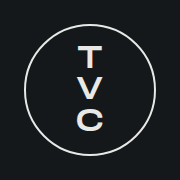
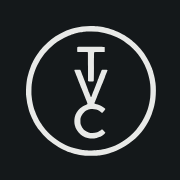
Use the company's real monogram
The mark I had been drawing was wrong. It set T, V and C as three separate
<text> baselines with gaps between them; Adam's actual mark interlocks them
down a shared axis — the T's stem runs into the V, the V's point runs into the
C — inside a thin ring.

This is a trace of his artwork, not a redraw. The supplied JPEG is upscaled 4x,
blurred to kill JPEG ringing, thresholded and run through potrace; the result
agrees with the original at 98.8% IoU, 50235 ink pixels against 50214. The
outlines are drawn, so the mark carries no font dependency and inherits
currentColor rather than depending on Archivo being loaded — the old one was
live text and would have shifted if the webfont failed.

site/scripts/trace-logo.py regenerates the path from site/scripts/logo-source.jpg
and --check reports the IoU, so this is reproducible if the artwork is ever
re-supplied at a higher resolution. The path in Monogram.astro, favicon.svg and
the archive is byte-identical to what that script emits.

Replaced in four places: the nav (now src/components/Monogram.astro, one source
of truth), favicon.svg, apple-touch-icon.png regenerated from the same path, and
the Direction A archive's inline copy. Direction B has no monogram — its header
is a type wordmark.

The paper backing disc is kept as a separate circle behind the traced path, so
the mark itself stays exactly as supplied while still reading over photography
and over the dark Materials and Finish bands.

Changed region(s): [[0.1111, 0.1111, 0.8889, 0.8889], [0.3889, 0.25, 0.6111, 0.7778]]

diff --git a/samples/venetian-company/index.html b/samples/venetian-company/index.html
@@ -193,9 +193,8 @@ h1,h2,h3{
    baselines — three lines of caps in a 44px circle collide in normal flow. */
 .monogram{ display:block; width:46px; height:46px; flex:0 0 auto; color:var(--ink); }
 .monogram svg{ display:block; width:100%; height:100%; overflow:visible; }
-.monogram text{ font-family:var(--display); font-weight:600; font-size:11px; font-stretch:125%;
-  fill:currentColor; letter-spacing:.2px; }
-.monogram circle{ fill:rgba(252,253,252,.82); stroke:currentColor; stroke-width:1; }
+.monogram path{ fill:currentColor; }
+.monogram .disc{ fill:rgba(252,253,252,.82); }
 .topbar nav{ display:none; gap:2.2rem; }
 .topbar nav a{
   text-decoration:none; font-size:var(--t-label); letter-spacing:var(--t-track);
@@ -693,11 +692,11 @@ footer{
 
 <header class="topbar">
   <a href="#top" class="monogram" aria-label="The Venetian Company, home">
-    <svg viewBox="0 0 48 48" role="img" aria-hidden="true" focusable="false">
-      <circle cx="24" cy="24" r="22.5"/>
-      <text x="24"   y="17.5" text-anchor="middle">T</text>
-      <text x="24.8" y="28"   text-anchor="middle">V</text>
-      <text x="24"   y="38.5" text-anchor="middle">C</text>
+    <!-- Adam's own mark, traced from the supplied artwork. Drawn outlines, so
+         no font dependency; the disc is a backing for placements over photos. -->
+    <svg viewBox="0 0 512 512" aria-hidden="true" focusable="false">
+      <circle class="disc" cx="256" cy="256" r="246"/>
+      <path d="M233.0 510.83C225.7 510.13 210.89 508.0 206.45 507.01C195.32 504.54 188.81 502.99 186.69 502.29C185.39 501.87 182.34 500.92 179.91 500.2C177.47 499.47 173.63 498.21 171.35 497.39C169.08 496.57 165.9 495.44 164.28 494.87C156.19 492.02 139.34 483.98 128.8 477.94C98.44 460.53 71.36 436.45 50.27 408.11C45.13 401.21 34.8 385.68 34.8 384.86C34.8 384.7 34.12 383.49 33.29 382.17C31.18 378.83 23.7 363.64 20.68 356.57C19.29 353.33 17.8 349.88 17.36 348.9C16.3 346.57 12.55 335.75 11.12 330.91C5.89 313.18 2.53 295.87 0.84 277.95C-1.23 255.9 0.88 222.1 5.61 201.68C9.31 185.67 13.88 171.14 19.58 157.2C23.19 148.39 33.92 127.57 38.13 121.22C54.99 95.77 65.77 82.95 85.24 65.2C103.63 48.41 128.34 32.33 151.46 22.09C161.33 17.71 176.04 12.25 183.15 10.32C185.1 9.79 188.55 8.85 190.82 8.22C208.77 3.25 233.16 0.04 253.05 0.02C263.75 0.01 284.17 1.14 290.13 2.08C310.4 5.26 319.34 7.32 335.04 12.43C350.11 17.33 356.08 19.81 371.37 27.52C383.46 33.62 392.81 39.24 405.82 48.21C417.73 56.42 439.86 76.91 450.52 89.6C470.45 113.3 485.91 139.37 495.16 164.87C496.34 168.11 497.65 171.56 498.07 172.53C499.68 176.2 505.09 196.21 506.76 204.68C507.84 210.16 508.2 212.36 509.99 224.44C512.36 240.5 512.32 266.88 509.89 286.97C508.51 298.42 508.0 301.42 505.41 313.22C503.37 322.51 498.65 338.04 495.1 347.13C478.79 388.9 453.63 424.08 419.98 452.19C400.88 468.15 383.31 479.03 357.75 490.73C354.33 492.3 353.21 492.75 346.25 495.38C335.17 499.56 317.12 504.72 305.84 506.93C289.1 510.22 281.23 510.93 259.24 511.12C247.56 511.23 235.75 511.1 233.0 510.83ZM284.61 488.71C299.03 486.52 309.65 484.53 313.81 483.22C314.94 482.87 317.99 482.0 320.59 481.29C363.17 469.66 404.14 443.3 434.2 408.18C450.23 389.46 464.62 365.99 472.91 345.07C477.48 333.54 478.31 331.22 480.48 323.83C484.9 308.78 486.21 302.52 489.06 282.6C490.88 269.93 490.68 237.51 488.71 226.51C488.22 223.75 487.82 220.65 487.82 219.62C487.82 217.76 486.74 212.49 483.93 200.55C481.59 190.57 477.97 179.16 474.46 170.64C473.29 167.79 471.97 164.46 471.52 163.25C468.5 154.96 457.96 135.62 450.31 124.34C427.33 90.45 394.7 62.28 357.85 44.51C321.61 27.04 284.0 19.56 243.32 21.75C235.73 22.16 227.05 22.88 224.03 23.36C221.01 23.84 216.95 24.48 215.0 24.79C206.45 26.15 195.58 28.8 184.63 32.2C178.49 34.1 176.51 34.8 170.76 37.17C169.79 37.57 166.74 38.81 163.98 39.93C148.08 46.38 125.77 59.52 111.78 70.68C82.06 94.36 60.35 121.33 44.48 154.25C38.4 166.87 31.94 183.99 29.46 194.06C27.47 202.12 26.45 206.67 25.63 211.17C22.45 228.48 21.76 235.57 21.52 253.35C21.4 262.11 21.53 270.86 21.81 272.81C22.09 274.76 22.63 279.48 23.0 283.3C23.87 292.12 26.59 306.9 28.95 315.57C30.76 322.22 34.21 333.22 35.42 336.22C36.02 337.68 37.19 340.73 38.04 343.0C39.89 347.98 39.93 348.06 46.24 360.87C49.01 366.48 51.81 371.83 52.47 372.76C53.14 373.69 53.68 374.63 53.68 374.86C53.68 375.5 64.38 391.43 68.82 397.38C77.84 409.49 92.14 424.5 105.59 435.97C127.92 455.01 160.61 472.56 189.05 480.75C197.83 483.28 213.71 486.87 218.84 487.49C220.62 487.7 224.74 488.26 227.98 488.72C237.11 490.03 237.94 490.06 258.65 489.88C273.09 489.74 279.8 489.44 284.61 488.71ZM252.3 442.92C239.09 441.65 224.51 435.48 214.93 427.12C202.25 416.06 195.7 405.53 191.96 390.19C190.02 382.22 189.91 368.5 191.72 360.25C195.0 345.29 201.95 333.5 213.27 323.68C220.88 317.08 227.57 313.15 237.1 309.67C239.53 308.79 241.76 307.66 242.07 307.18C242.57 306.37 239.68 297.79 236.84 291.69C236.39 290.71 234.26 285.4 232.12 279.89C229.97 274.37 227.7 268.67 227.08 267.21C226.45 265.75 224.33 260.44 222.37 255.41C220.4 250.38 218.28 245.07 217.66 243.61C217.03 242.15 213.71 233.79 210.27 225.03C203.49 207.71 202.65 205.63 201.04 201.91C200.45 200.55 199.96 199.26 199.96 199.05C199.96 198.84 199.58 197.83 199.12 196.81C198.66 195.79 197.58 193.09 196.72 190.82C194.95 186.1 193.26 181.91 191.64 178.27C190.41 175.49 190.22 173.68 191.1 173.14C191.41 172.94 196.48 172.77 202.35 172.76C211.48 172.74 213.19 172.87 214.11 173.71C214.7 174.24 216.26 177.52 217.57 180.98C218.88 184.45 221.85 192.19 224.17 198.19C226.49 204.2 231.05 216.14 234.3 224.74C237.55 233.33 241.12 242.76 242.24 245.68C243.37 248.6 244.52 251.73 244.8 252.65C245.09 253.56 246.77 257.94 248.54 262.38C251.57 269.98 254.22 276.83 255.01 279.14C255.66 281.01 257.0 279.59 258.65 275.29C265.0 258.75 266.42 255.08 268.43 250.1C269.67 247.02 271.94 241.18 273.46 237.12C274.99 233.07 277.01 227.76 277.95 225.33C278.9 222.89 279.95 220.11 280.28 219.13C280.62 218.16 281.26 216.53 281.72 215.51C282.17 214.48 282.54 213.36 282.54 213.01C282.54 212.67 283.06 211.25 283.69 209.86C284.33 208.47 285.49 205.61 286.28 203.5C287.08 201.39 289.18 195.95 290.95 191.41C292.73 186.87 294.93 181.16 295.84 178.73C296.75 176.29 297.9 173.97 298.39 173.57C299.79 172.41 320.8 172.52 321.25 173.69C321.57 174.51 313.04 196.73 311.97 197.87C311.68 198.18 311.45 198.81 311.45 199.27C311.45 199.73 310.8 201.6 310.02 203.43C309.23 205.25 307.21 210.2 305.53 214.41C303.85 218.63 301.16 225.4 299.55 229.46C297.93 233.51 295.99 238.29 295.22 240.07C294.45 241.86 291.28 249.69 288.18 257.47C285.07 265.26 282.28 272.16 281.98 272.81C281.67 273.46 280.32 276.78 278.97 280.18C277.63 283.59 275.99 287.71 275.34 289.33C274.69 290.95 273.52 293.95 272.74 296.0C271.97 298.05 270.93 300.49 270.45 301.43C268.53 305.14 269.44 306.29 274.82 306.98C278.24 307.41 287.89 310.33 290.62 311.75C291.53 312.23 292.5 312.62 292.76 312.62C293.81 312.63 301.98 317.73 307.17 321.61C310.87 324.38 312.63 326.07 312.63 326.87C312.63 328.46 301.0 342.71 299.7 342.71C299.15 342.71 297.91 341.88 296.96 340.86C293.32 336.98 283.55 331.33 276.69 329.14C265.64 325.62 250.42 326.36 242.15 330.82C240.85 331.52 239.55 332.09 239.26 332.09C237.85 332.09 231.62 336.91 227.26 341.37C221.78 346.98 218.63 352.18 216.09 359.82C214.52 364.5 214.42 365.45 214.43 374.27C214.45 383.46 214.51 383.86 216.48 389.6C221.32 403.7 232.16 414.34 246.86 419.41C256.09 422.59 270.9 422.09 280.48 418.26C286.0 416.05 293.01 411.87 296.54 408.67C297.91 407.43 299.3 406.41 299.63 406.41C300.18 406.41 304.1 410.39 310.17 417.1C311.52 418.59 312.63 420.27 312.63 420.81C312.63 422.09 309.37 425.12 303.78 429.05C297.86 433.21 295.09 434.74 288.44 437.54C281.03 440.66 275.22 442.22 268.29 442.96C261.93 443.65 259.8 443.64 252.3 442.92ZM245.44 217.28L244.2 216.41L244.2 160.13C244.2 105.1 244.18 103.84 243.06 103.25C242.34 102.86 234.77 102.64 222.53 102.64C208.24 102.64 202.96 102.45 202.44 101.93C201.45 100.94 201.45 83.69 202.44 82.7C203.56 81.58 308.69 81.68 309.62 82.81C310.08 83.37 310.25 86.58 310.14 92.98L309.97 102.34L289.5 102.64C276.58 102.82 268.81 103.16 268.42 103.54C268.02 103.95 267.76 122.63 267.66 160.29C267.53 205.38 267.35 216.57 266.74 217.19C265.55 218.37 247.11 218.45 245.44 217.28Z"/>
     </svg>
   </a>
   <nav>

diff --git a/site/scripts/trace-logo.py b/site/scripts/trace-logo.py
@@ -1,0 +1,94 @@
+#!/usr/bin/env python3
+"""Regenerate the TVC monogram path from Adam's supplied artwork.
+
+The mark is a trace, not a reconstruction, so the artwork is the source of
+truth and this is how it gets turned back into a path. Run it if the artwork is
+ever re-supplied at a higher resolution.
+
+    pip install potracer pillow numpy
+    python3 site/scripts/trace-logo.py            # prints the path data
+    python3 site/scripts/trace-logo.py --check    # also reports IoU vs source
+
+The output goes into src/components/Monogram.astro, and the same path data is
+reused in public/assets/favicon.svg and apple-touch-icon.png.
+"""
+import argparse, os, sys
+import numpy as np
+import potrace
+from PIL import Image, ImageFilter
+
+HERE = os.path.dirname(os.path.abspath(__file__))
+SOURCE = os.path.join(HERE, "logo-source.jpg")
+UPSCALE = 4      # the artwork is only 320px; trace at 1280 and scale back down
+BLUR = 1.2       # smooths JPEG ringing so potrace doesn't chase artefacts
+VIEWBOX = 512.0
+
+def bitmap(path):
+    im = Image.open(path).convert("L")
+    w, h = im.size
+    im = im.resize((w * UPSCALE, h * UPSCALE), Image.LANCZOS).filter(ImageFilter.GaussianBlur(BLUR))
+    grey = np.asarray(im)
+    # potrace.Bitmap.__init__ calls self.invert() unconditionally, so hand it
+    # True-where-WHITE and the constructor flips it to True-where-ink.
+    return grey >= 128
+
+def crop_square(bm):
+    """Trim to the mark and centre it, so the ring sits tight in the viewBox."""
+    ys, xs = np.nonzero(~bm)
+    sub = bm[ys.min():ys.max() + 1, xs.min():xs.max() + 1]
+    h, w = sub.shape
+    side = max(w, h)
+    out = np.ones((side, side), dtype=bool)
+    out[(side - h) // 2:(side - h) // 2 + h, (side - w) // 2:(side - w) // 2 + w] = sub
+    return out
+
+def trace(bm):
+    scale = VIEWBOX / bm.shape[0]
+    f = lambda v: round(v * scale, 2)
+    parts = []
+    for curve in potrace.Bitmap(bm).trace(turdsize=10, alphamax=1.0, opticurve=True, opttolerance=0.2):
+        start = curve.start_point
+        d = [f"M{f(start.x)} {f(start.y)}"]
+        for seg in curve:
+            if seg.is_corner:
+                d.append(f"L{f(seg.c.x)} {f(seg.c.y)}L{f(seg.end_point.x)} {f(seg.end_point.y)}")
+            else:
+                d.append(f"C{f(seg.c1.x)} {f(seg.c1.y)} {f(seg.c2.x)} {f(seg.c2.y)}"
+                         f" {f(seg.end_point.x)} {f(seg.end_point.y)}")
+        parts.append("".join(d) + "Z")
+    return "".join(parts)
+
+def main():
+    ap = argparse.ArgumentParser()
+    ap.add_argument("--check", action="store_true", help="report shape agreement with the source")
+    args = ap.parse_args()
+    bm = crop_square(bitmap(SOURCE))
+    d = trace(bm)
+    print(d)
+    if args.check:
+        # Rasterise the traced path back at the source size and compare ink masks.
+        try:
+            from playwright.sync_api import sync_playwright
+        except ImportError:
+            print("\n--check needs playwright", file=sys.stderr)
+            return 0
+        import io
+        svg = (f'<svg xmlns="http://www.w3.org/2000/svg" viewBox="0 0 512 512" '
+               f'width="512" height="512"><path fill="#000" d="{d}"/></svg>')
+        with sync_playwright() as pw:
+            b = pw.chromium.launch(executable_path=os.environ.get("CHROME_PATH") or None)
+            page = b.new_context(viewport={"width": 512, "height": 512}).new_page()
+            page.set_content(f'<body style="margin:0;background:#fff">{svg}</body>')
+            page.wait_for_timeout(300)
+            shot = page.screenshot(clip={"x": 0, "y": 0, "width": 512, "height": 512})
+            b.close()
+        traced = np.asarray(Image.open(io.BytesIO(shot)).convert("L")) < 128
+        source = np.asarray(Image.fromarray((~crop_square(bitmap(SOURCE))).astype("uint8") * 255)
+                            .resize((512, 512), Image.LANCZOS)) > 127
+        iou = (traced & source).sum() / (traced | source).sum()
+        print(f"\nink px  traced {traced.sum()}  source {source.sum()}", file=sys.stderr)
+        print(f"IoU {iou * 100:.2f}%", file=sys.stderr)
+    return 0
+
+if __name__ == "__main__":
+    sys.exit(main())

diff --git a/CLAUDE.md b/CLAUDE.md
@@ -63,8 +63,15 @@ Everything below is taken from the client's own public Instagram
   The finish is the product, so the page should feel like the surface.
 - **Service area:** nationwide (confirmed).
 - **Studio credit:** pages carry "Designed by YSBDesigns" in the footer.
-- **Existing brand assets:** circular TVC monogram (stacked T/V/C, thin black rule on
-  white). All-caps tracked typography across their story graphics. No website.
+- **Existing brand assets:** the TVC monogram — a thin black ring with the T, V and
+  C **interlocked down a shared axis**, the T's stem running into the V and the V's
+  point into the C. They are not three stacked letters with gaps; the first pass got
+  that wrong and set them as separate `<text>` baselines. Adam supplied the artwork,
+  and `site/src/components/Monogram.astro` is a **trace of it** (upscaled 4x,
+  thresholded, potrace; 98.7% IoU against the original, 9007 ink pixels to 9008).
+  The outlines are drawn, so there is no font dependency and the mark inherits
+  `currentColor`. Do not tidy the curves — the small asymmetries are in his mark.
+  All-caps tracked typography across their story graphics. No website.
 
 ### Written from general knowledge, not from them — needs Adam's sign-off
 

diff --git a/site/public/assets/CREDITS.md b/site/public/assets/CREDITS.md
@@ -10,6 +10,7 @@ It is theirs. If the pitch doesn't go ahead, these files come out.
 |---|---|---|
 | `staircase.mp4` / `staircase-poster.jpg` | sent into chat | marbled stairwell, treads to roof light — same job as `stair-marbled.jpg`; replaced the earlier lower-bitrate curved-staircase reel. 720x1280, 21.4s, audio stripped, H.264 CRF 28 (981 kb/s, 2.6 MB), faststart. Poster is frame 0 at 540x960 so there is no jump when it starts. |
 | `bathroom-blush.mp4` / `bathroom-blush-poster.jpg` | IG reel | blush-pigmented bathroom; same treatment |
+| `favicon.svg` / `apple-touch-icon.png` | traced from the supplied logo | the TVC monogram, paper on ink; both generated from the same path data as `Monogram.astro` |
 | `hero-courtyard.jpg` | sent into chat | covered courtyard of a flat-roofed new build; the full-bleed hero plate. **Only 712x612 as supplied** — it is upscaled roughly 2x at 1440 and more on a retina screen. Light unsharp pass (r1.1/55%/t3) then JPEG q84 progressive. A higher-resolution original is needed before this goes to Adam. |
 | `wet-room.jpg` | IG post | microcement wet room |
 | `bathroom-arch.jpg` | IG post | bathroom, arched window, marble |
